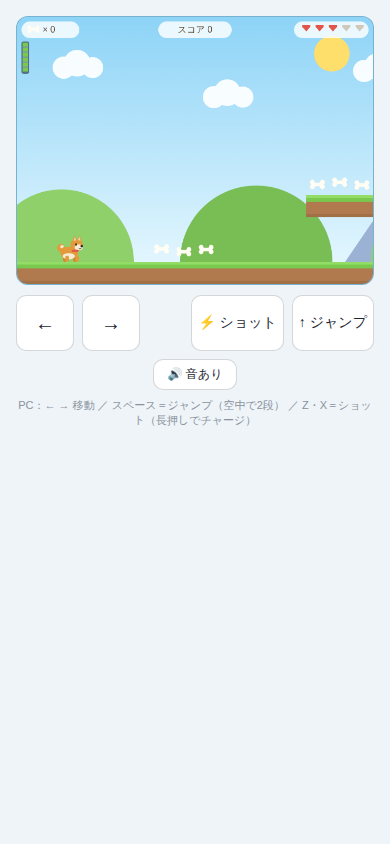
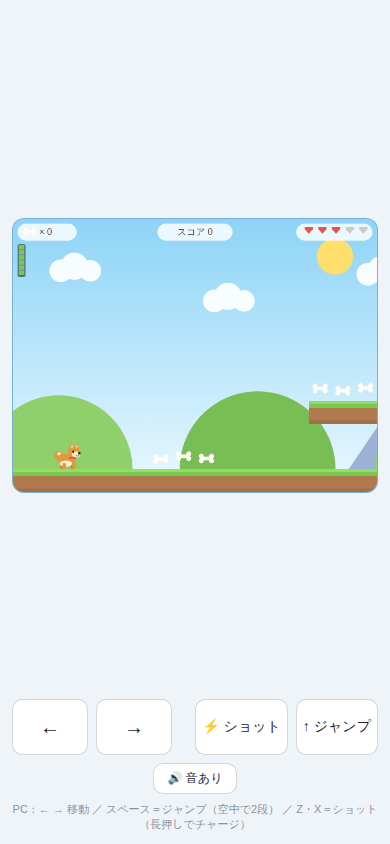
スマホのレイアウトを直した: 余りではなく親指の通り道にする
縦持ちのスマホで画面の1/3しか使えていなかった。ただし横スクロールのゲームを
縦長の画面で縦いっぱいにするのは原理的に無理で、4:3である以上 canvas の高さは
画面幅の3/4で頭打ちになる。占有率32%は動かせない。

そこで canvas を広げる方向をやめ、余った縦を操作ボタンに使った。ボタンを56pxから
76pxに広げて画面の下端へ寄せ、余白は canvas の上と canvas の下へ半分ずつ配った。
片方だけに寄せると空白が1か所に固まって作りかけに見える。

横向きでは canvas がはみ出して操作ボタンが画面外へ出ていた。高さから幅を決める
上限を入れて直し、指で遊ぶ場面では読まれないキー説明を畳んだ。

ボタンの寸法はインライン style からスタイルシートへ移した。インラインに書くと
メディアクエリで上書きできず、大きくしたつもりが効いていなかった。

触ったのは HTML と CSS だけなので4シナリオのダイジェストは不変。
確認は tools/layout-check.mjs に残した。4つの画面サイズで、操作ボタンが
画面内に収まることと縦スクロールが出ないことを機械的に見る。

diff --git a/index.html b/index.html
@@ -14,13 +14,51 @@
   --text-muted:#8a929e;
 }
 *{box-sizing:border-box;}
-body{margin:0;padding:16px;background:#eef4f8;font-family:var(--font-sans);}
+/* 画面いっぱいを使う。以前は上に貼り付いていたので、スマホでは下2/3が空白だった。
+   縦に中央寄せすると余白が上下へ均等に散り、操作ボタンも指の届く位置まで下りてくる */
+body{margin:0;padding:12px;background:#eef4f8;font-family:var(--font-sans);
+  min-height:100vh;min-height:100dvh;display:flex;flex-direction:column;}
+#shibaWrap{flex:1;display:flex;flex-direction:column;justify-content:center;}
+/* canvas は 4:3 のまま。縦が足りない画面（横向きスマホなど）では幅ではなく
+   高さで大きさが決まるので、「使える高さ × 4/3」を幅の上限にする。
+   これを書かないと、横向きにしたときに canvas がはみ出して操作ボタンが画面外へ出る。
+   170px は操作ボタン・ミュート・キー説明・余白の合計のおおよその高さ */
+#stage{width:100%;max-width:min(640px,calc((100dvh - 170px) * 4 / 3));margin-left:auto;margin-right:auto;}
+#ctrl,#meta,#kbdHint{width:100%;max-width:640px;margin-left:auto;margin-right:auto;}
+#ctrl{margin-top:10px;}
+/* 横向きスマホ。キー説明は指で遊ぶ場面では読まれないので畳み、その分を画面に回す。
+   予約分は 操作ボタン66 + ミュート37 + 本文の余白24 の実測値から140 */
+@media (max-height:520px){
+  #kbdHint{display:none;}
+  #stage{max-width:min(640px,calc((100dvh - 140px) * 4 / 3));}
+}
+/* 縦持ちのスマホ。横スクロールのゲームを縦長の画面で縦いっぱいにするのは原理的に無理で、
+   canvas は画面幅で頭打ちになる（4:3 なので高さは幅の3/4より大きくならない）。
+   だから余った縦を canvas ではなく操作ボタンに使う。ボタンを大きくして下へ寄せると、
+   空白が「余り」ではなく「親指の通り道」になる */
+@media (max-width:560px) and (orientation:portrait){
+  /* 均等割りにすると隙間が3か所にできて散らかる。canvas を上に置き、
+     操作の一群を下へ寄せて、余白を1か所にまとめる */
+  #shibaWrap{justify-content:flex-start;}
+  /* 余白を canvas の上と、canvas と操作の間へ半分ずつ配る。
+     操作は画面の下端に貼り付き、canvas は上寄りの中央に来る。
+     どちらか片方だけを auto にすると、空白が1か所に固まって「作りかけ」に見える */
+  #stage{margin-top:auto;}
+  #ctrl{margin-top:auto;}
+  .cbtn{height:76px;font-size:22px;}
+  #bL,#bR{min-width:76px;}
+  #bS,#bJ{min-width:106px;font-size:15px;}
+  #bM{font-size:14px;padding:10px 20px;}
+}
 button{font-family:inherit;font-weight:500;color:var(--text-primary);background:#ffffff;border:1px solid var(--border);border-radius:10px;cursor:pointer;-webkit-tap-highlight-color:transparent;}
 button:active{background:#dbe6ee;}
 #ovB{background:#2f6fed;border:none;color:#ffffff;}
 #ovB:active{background:#245ac6;}
 .stageBtn{font-size:13px;padding:8px 14px;width:100%;text-align:left;}
 .stageBtn:disabled{color:var(--text-muted);background:#f1f4f7;cursor:default;}
+/* 操作ボタンの寸法はここで持つ。インライン style に書くとメディアクエリで上書きできない */
+.cbtn{min-width:58px;height:56px;font-size:20px;touch-action:none;}
+#bS,#bJ{min-width:82px;font-size:14px;font-weight:500;}
 </style>
 </head>
 <body>
@@ -37,20 +75,20 @@ button:active{background:#dbe6ee;}
       </div>
     </div>
   </div>
-  <div id="ctrl" style="display:flex;justify-content:space-between;align-items:center;gap:8px;margin-top:10px;touch-action:none;">
+  <div id="ctrl" style="display:flex;justify-content:space-between;align-items:center;gap:8px;touch-action:none;">
     <div style="display:flex;gap:8px;">
-      <button class="cbtn" id="bL" aria-label="左へ移動" style="min-width:58px;height:56px;font-size:20px;touch-action:none;">←</button>
-      <button class="cbtn" id="bR" aria-label="右へ移動" style="min-width:58px;height:56px;font-size:20px;touch-action:none;">→</button>
+      <button class="cbtn" id="bL" aria-label="左へ移動">←</button>
+      <button class="cbtn" id="bR" aria-label="右へ移動">→</button>
     </div>
     <div style="display:flex;gap:8px;">
-      <button class="cbtn" id="bS" style="min-width:82px;height:56px;font-size:14px;font-weight:500;touch-action:none;">⚡ ショット</button>
-      <button class="cbtn" id="bJ" style="min-width:82px;height:56px;font-size:14px;font-weight:500;touch-action:none;">↑ ジャンプ</button>
+      <button class="cbtn" id="bS">⚡ ショット</button>
+      <button class="cbtn" id="bJ">↑ ジャンプ</button>
     </div>
   </div>
   <div id="meta" style="display:flex;justify-content:center;gap:8px;margin-top:8px;">
     <button id="bM" style="font-size:12px;padding:6px 14px;">🔊 音あり</button>
   </div>
-  <p style="margin:8px 0 0;text-align:center;font-size:11px;color:var(--text-muted);">PC：← → 移動 ／ スペース＝ジャンプ（空中で2段） ／ Z・X＝ショット（長押しでチャージ）</p>
+  <p id="kbdHint" style="margin:8px 0 0;text-align:center;font-size:11px;color:var(--text-muted);">PC：← → 移動 ／ スペース＝ジャンプ（空中で2段） ／ Z・X＝ショット（長押しでチャージ）</p>
 </div>
 <script type="module" src="src/main.js"></script>
 </body>
